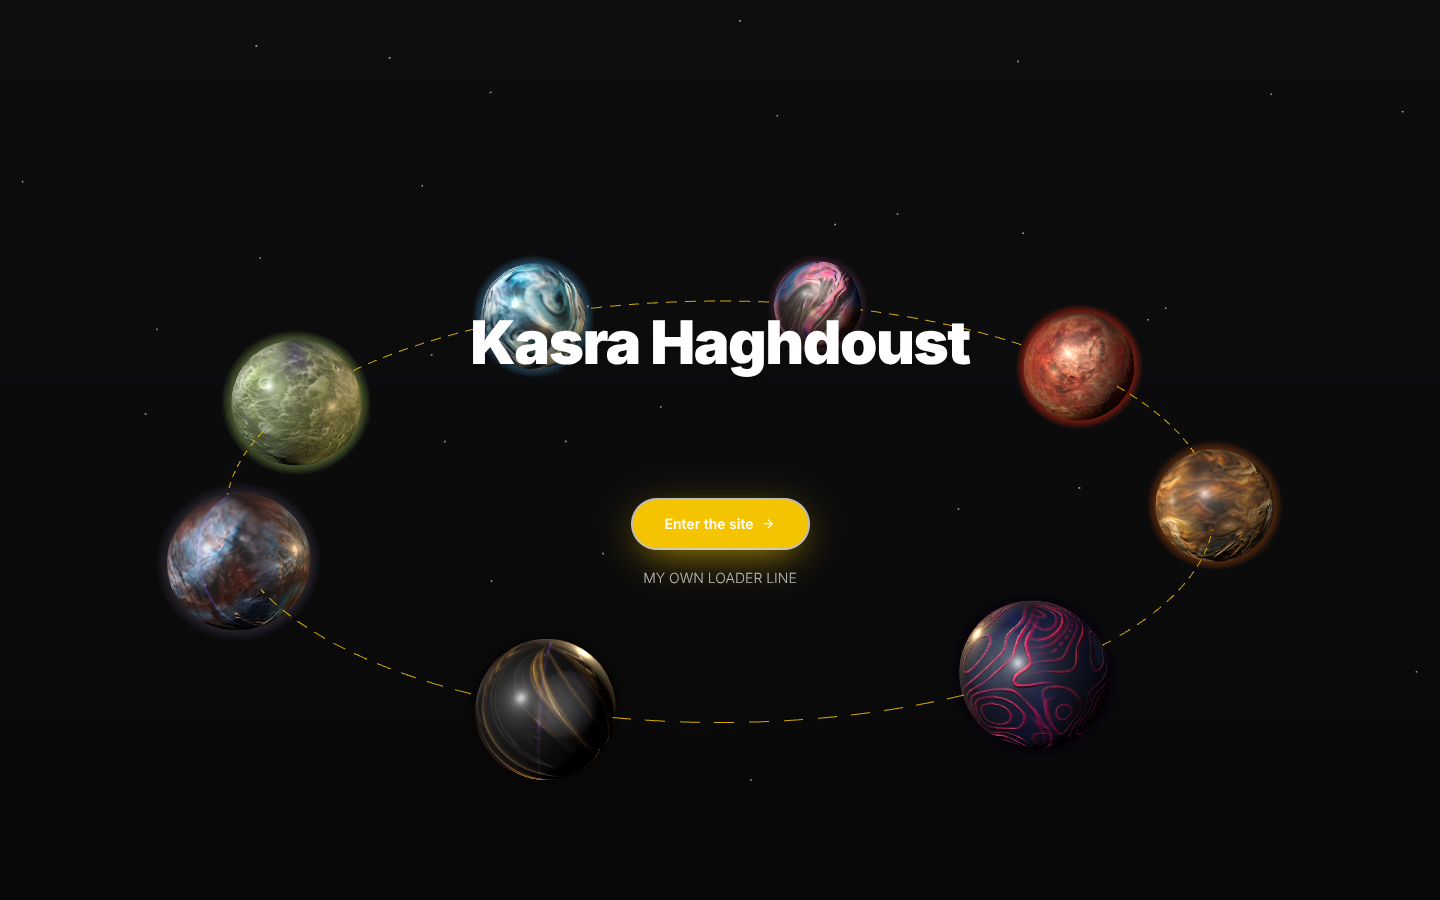
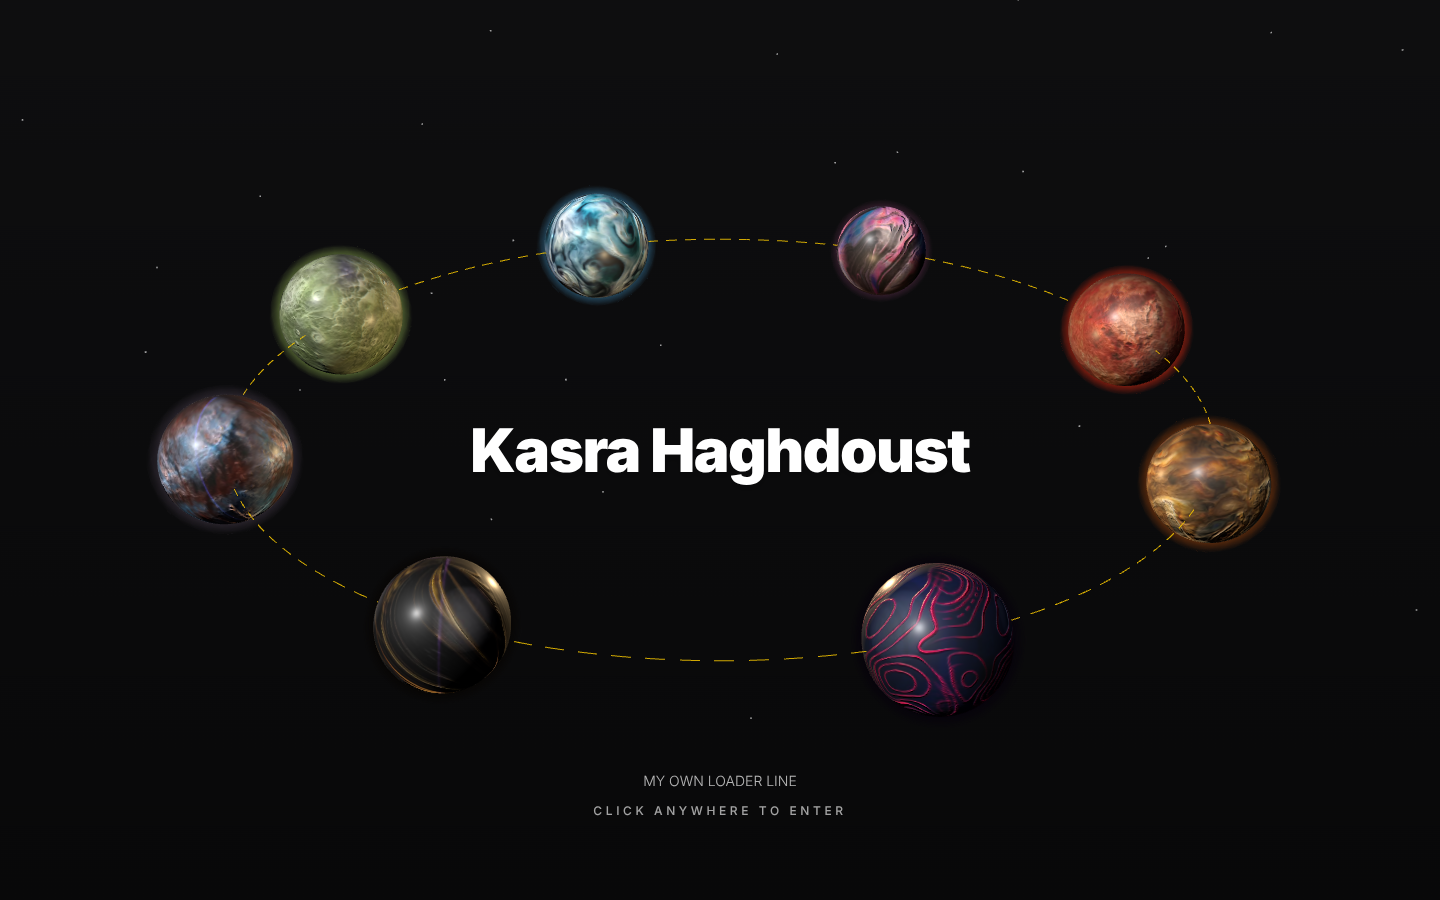
Planets loader: tap anywhere to enter; the name centred in the orbit
- No button: once the planets have spun, a click or tap anywhere on the loader
  (or Enter or Space; it takes the keyboard focus) opens the site. A quiet,
  breathing line at the bottom says 'Tap anywhere to enter' on touch screens and
  'Click anywhere to enter' elsewhere (in Persian too); its words are still the
  per-language setting in Site settings, now called 'Invitation to go in'.
- The counter and then the site's name sit exactly in the middle of the screen,
  and the picture is shifted so the orbit, which looks bigger at the front, is
  centred on them. On phones the orbit is wider and the name smaller, so it fits
  inside the ring. The loader's own line moves to the bottom.

Claude-Session: https://claude.ai/code/session_01KjeKB3t9otzsPaULNBKz9P

diff --git a/apps/web/components/site/SiteLoader.vue b/apps/web/components/site/SiteLoader.vue
@@ -9,7 +9,8 @@
  * Styles: a percentage counter, a thin bar, the name filling with color, the logo in a filling ring, a spinning ring,
  * bouncing dots, pulsing circles, the name typed out, a curtain that opens on the site, and 3D planets gathering
  * round the counter (LoaderPlanets). The planets style does not open by itself: once everything is in, the planets
- * spin round for a second, then the site's name and an "enter" button show, and the site opens when it is pressed.
+ * spin round for a second, the site's name takes the counter's place in the middle of the orbit, and a click or tap
+ * anywhere (or Enter, Space) opens the site; a quiet line at the bottom says so.
  * Its colors, size, pictures (with a separate one for phones), logo and shortest time come from the settings.
  */
 import type { LoaderSettings } from '@profiterol/blocks';
@@ -27,7 +28,6 @@ const finishing = ref(false);
 /** The planets style, once loaded: 'spin' for a second, then 'enter' (the button shows) until the visitor goes in. */
 const stage = ref<'loading' | 'spin' | 'enter'>('loading');
 const withPlanets = computed(() => props.loader.style === 'planets' && Boolean(props.loader.planets?.length));
-const enterButton = ref<HTMLButtonElement | null>(null);
 /** Running in the browser: the CSS that removes the loader after 8 seconds without JavaScript is turned off. */
 const live = ref(false);
 let frame = 0;
@@ -55,7 +55,8 @@ function finish() {
     stage.value = 'spin';
     setTimeout(() => {
       stage.value = 'enter';
-      nextTick(() => enterButton.value?.focus({ preventScroll: true }));
+      // Focus the loader, so Enter or Space opens the site too.
+      nextTick(() => root.value?.focus({ preventScroll: true }));
     }, 1000);
     return;
   }
@@ -117,6 +118,7 @@ function iris() {
 
 onMounted(() => {
   live.value = true;
+  touch.value = window.matchMedia('(hover: none)').matches;
   const calm = window.matchMedia('(prefers-reduced-motion: reduce)').matches;
   if (!props.preview && (calm || document.documentElement.classList.contains('loader-seen'))) {
     shown.value = false;
@@ -160,7 +162,21 @@ const digits = computed(() =>
 // The color fills in reading direction: from the left, or from the right in Persian.
 const fillClip = computed(() => (props.locale === 'fa' ? `inset(0 0 0 ${100 - percent.value}%)` : `inset(0 ${100 - percent.value}% 0 0)`));
 const line = computed(() => props.loader.text?.[props.locale] ?? '');
-const enterLabel = computed(() => props.loader.enterLabel?.[props.locale] || (props.locale === 'fa' ? 'ورود به سایت' : 'Enter the site'));
+/** Waiting for the visitor to go in (planets style): anywhere on the loader is the way in. */
+const waitingToEnter = computed(() => stage.value === 'enter' && !finishing.value);
+/** Touch screens are tapped, the others clicked. */
+const touch = ref(false);
+const enterLabel = computed(
+  () =>
+    props.loader.enterLabel?.[props.locale] ||
+    (props.locale === 'fa'
+      ? touch.value
+        ? 'برای ورود، هر جا را لمس کنید'
+        : 'برای ورود، هر جا کلیک کنید'
+      : touch.value
+        ? 'Tap anywhere to enter'
+        : 'Click anywhere to enter'),
+);
 
 /** The logo ring: its length, and how much of it is still empty. */
 const RING = 2 * Math.PI * 54;
@@ -218,11 +234,15 @@ const pictureFilter = computed(() => (props.loader.blur ? `blur(${Math.max(0, 30
       :data-live="live || undefined"
       :class="[preview ? 'absolute inset-0' : 'fixed inset-0', covered ? 'bg-dark' : '', { 'site-loader-wide-only': loader.hideOnMobile }]"
       :style="colors"
-      role="progressbar"
-      :aria-valuenow="shownPercent"
-      aria-valuemin="0"
-      aria-valuemax="100"
-      :aria-label="siteName"
+      :role="waitingToEnter ? 'button' : 'progressbar'"
+      :tabindex="waitingToEnter ? 0 : undefined"
+      :aria-valuenow="waitingToEnter ? undefined : shownPercent"
+      :aria-valuemin="waitingToEnter ? undefined : 0"
+      :aria-valuemax="waitingToEnter ? undefined : 100"
+      :aria-label="waitingToEnter ? `${siteName}: ${enterLabel}` : siteName"
+      @click="waitingToEnter && open()"
+      @keydown.enter.prevent="waitingToEnter && open()"
+      @keydown.space.prevent="waitingToEnter && open()"
     >
       <!-- Curtain: two halves meeting at a progress line, sliding apart when the page is ready -->
       <template v-if="loader.style === 'curtain'">
@@ -369,7 +389,11 @@ const pictureFilter = computed(() => (props.loader.blur ? `blur(${Math.max(0, 30
               v-else
               key="name"
               class="font-black tracking-tight"
-              :class="withPlanets ? 'text-4xl leading-tight drop-shadow-lg @3xl:text-6xl' : 'text-5xl @3xl:text-7xl'"
+              :class="
+                withPlanets
+                  ? 'max-w-[70vw] text-2xl leading-tight drop-shadow-lg @xl:text-4xl @3xl:max-w-none @3xl:text-6xl'
+                  : 'text-5xl @3xl:text-7xl'
+              "
               dir="auto"
             >
               {{ siteName }}
@@ -378,26 +402,25 @@ const pictureFilter = computed(() => (props.loader.blur ? `blur(${Math.max(0, 30
           <div v-if="loader.style !== 'planets'" class="site-loader-track mx-auto mt-6 h-0.5 w-56 overflow-hidden rounded-full">
             <div class="h-full origin-left bg-primary" :style="{ transform: `scaleX(${percent / 100})` }" />
           </div>
-          <!-- The planets style: the way in -->
-          <Transition
-            enter-active-class="transition duration-500 ease-out"
-            enter-from-class="opacity-0 translate-y-3"
-            leave-active-class="transition duration-300"
-            leave-to-class="opacity-0"
-          >
-            <button
-              v-if="stage === 'enter' && !finishing"
-              ref="enterButton"
-              type="button"
-              class="mt-44 inline-flex items-center gap-2 rounded-full bg-primary @3xl:mt-32 px-8 py-3.5 text-sm font-semibold text-white shadow-[0_10px_40px_-10px_var(--c-primary)] transition hover:scale-105 focus:outline-none focus-visible:ring-2 focus-visible:ring-white/70"
-              @click="open"
-            >
-              {{ enterLabel }}
-              <i class="mdi mdi-arrow-right rtl:rotate-180" aria-hidden="true" />
-            </button>
-          </Transition>
         </template>
-        <p v-if="line" class="mt-5 text-sm font-light opacity-70" :class="{ 'mt-16': loader.style === 'curtain' }">{{ line }}</p>
+        <p v-if="line && !withPlanets" class="mt-5 text-sm font-light opacity-70" :class="{ 'mt-16': loader.style === 'curtain' }">
+          {{ line }}
+        </p>
+      </div>
+
+      <!-- The planets style: the counter and then the name stay alone in the middle of the orbit; the line and the
+           invitation to go in sit at the bottom. -->
+      <div
+        v-if="withPlanets"
+        class="pointer-events-none absolute inset-x-0 bottom-[9vh] px-6 text-center transition-opacity duration-300"
+        :class="{ 'opacity-0': finishing }"
+      >
+        <p v-if="line" class="text-sm font-light opacity-70">{{ line }}</p>
+        <Transition enter-active-class="transition duration-700 ease-out" enter-from-class="opacity-0 translate-y-2">
+          <p v-if="waitingToEnter" class="site-loader-invite mt-3 text-xs font-medium uppercase tracking-[0.3em] opacity-80">
+            {{ enterLabel }}
+          </p>
+        </Transition>
       </div>
     </div>
   </Transition>
@@ -411,6 +434,19 @@ const pictureFilter = computed(() => (props.loader.blur ? `blur(${Math.max(0, 30
 }
 .site-loader[data-live] {
   animation: none;
+}
+.site-loader[role='button'] {
+  cursor: pointer;
+  outline: none;
+}
+/* The invitation to go in breathes gently. */
+.site-loader-invite {
+  animation: site-loader-invite 2.4s ease-in-out infinite;
+}
+@keyframes site-loader-invite {
+  50% {
+    opacity: 0.35;
+  }
 }
 @keyframes site-loader-failsafe {
   to {

diff --git a/apps/web/components/site/LoaderPlanets.vue b/apps/web/components/site/LoaderPlanets.vue
@@ -2,8 +2,8 @@
 /**
  * The "3D planets" page loader's scene: the planets (see lib/planet-kit) orbit the loading counter on a tilted ring
  * that draws itself as the page loads, each planet arriving in turn as the count passes its share. Once every planet
- * is in, `spinning` sends them round the orbit fast for a moment; then they turn slowly while the visitor reads the
- * name and the "enter" button. When the visitor goes in (`finishing`) the orbit speeds up and opens out past the
+ * is in, `spinning` sends them round the orbit fast for a moment; then they turn slowly round the name, centred in
+ * the ring, until the visitor goes in. When the visitor goes in (`finishing`) the orbit speeds up and opens out past the
  * edges of the screen while the camera rises, so the planets fly off as the loader fades away. The planets are made
  * light (small pictures, half-size maps), so they are in quickly. Three.js is fetched only when this style is chosen;
  * until it is in, the
@@ -129,7 +129,7 @@ onMounted(async () => {
       for (let k = 0; k < 32; k++) {
         const a = (k / 32) * Math.PI * 2;
         probe.set(Math.cos(a) * reach, PLANET, Math.sin(a) * reach).project(camera);
-        if (Math.abs(probe.x) > 0.82 || Math.abs(probe.y) > 0.7) return false;
+        if (Math.abs(probe.x) > (camera.aspect < 1 ? 0.94 : 0.82) || Math.abs(probe.y) > 0.7) return false;
       }
       return true;
     };
@@ -142,6 +142,18 @@ onMounted(async () => {
     }
     distance = hi;
   }
+  /**
+   * Seen from above and in front, the near half of the orbit looks bigger than the far half, so the ring's middle
+   * on screen falls below the screen's middle, where the counter and the name sit. Shift the picture so the ring is
+   * centred on them exactly.
+   */
+  function centre() {
+    camera.updateMatrixWorld();
+    const far = new THREE.Vector3(0, 0, -RADIUS).project(camera).y;
+    const near = new THREE.Vector3(0, 0, RADIUS).project(camera).y;
+    camera.projectionMatrix.elements[9] = (far + near) / 2;
+    camera.projectionMatrixInverse.copy(camera.projectionMatrix).invert();
+  }
   function resize() {
     const { width, height } = el.getBoundingClientRect();
     if (!width || !height) return;
@@ -149,6 +161,8 @@ onMounted(async () => {
     camera.aspect = width / height;
     camera.updateProjectionMatrix();
     fit();
+    aim(0);
+    centre();
   }
   const sized = new ResizeObserver(resize);
   sized.observe(el);

diff --git a/apps/web/pages/admin/settings.vue b/apps/web/pages/admin/settings.vue
@@ -392,13 +392,13 @@ onMounted(load);
             </button>
             <div class="mt-3 grid gap-3 sm:grid-cols-2">
               <div v-for="l in locales" :key="l.code">
-                <label class="field-label">{{ $t('Enter button ({lang})', { lang: l.label }) }}</label>
+                <label class="field-label">{{ $t('Invitation to go in ({lang})', { lang: l.label }) }}</label>
                 <input
                   v-model="settings.loader.enterLabel[l.code]"
                   class="input"
                   :dir="l.dir"
                   maxlength="40"
-                  :placeholder="l.code === 'fa' ? 'ورود به سایت' : 'Enter the site'"
+                  :placeholder="l.code === 'fa' ? 'برای ورود، هر جا را لمس کنید' : 'Tap anywhere to enter'"
                 />
               </div>
             </div>

diff --git a/apps/web/i18n/admin-fa.ts b/apps/web/i18n/admin-fa.ts
@@ -606,7 +606,7 @@ export const adminFa: Record<string, string> = {
   "Planet pictures (round planets, up to 8)": "عکس سیارهها (سیارههای گرد، تا ۸ تا)",
   "Planet {n}": "سیارهی {n}",
   "Add a planet": "افزودن سیاره",
-  "Enter button ({lang})": "دکمهی ورود ({lang})",
+  "Invitation to go in ({lang})": "دعوت به ورود ({lang})",
   "Planet size in the picture: {n}%": "اندازهی سیاره در عکس: {n}٪",
   "Text color": "رنگ متن",
   "Bar, ring and dots color": "رنگ نوار، حلقه و نقطهها",

diff --git a/packages/blocks/src/site.ts b/packages/blocks/src/site.ts
@@ -55,7 +55,7 @@ export interface LoaderSettings {
   planets: string[];
   /** How much of each planet picture's width the round planet takes up (10–100, %). */
   planetFill: number;
-  /** The "3D planets" style's button into the site, per locale; "Enter the site" when empty. */
+  /** The "3D planets" style's invitation to go in (anywhere opens the site), per locale; "Tap/Click anywhere to enter" when empty. */
   enterLabel: Record<string, string>;
 }
 
